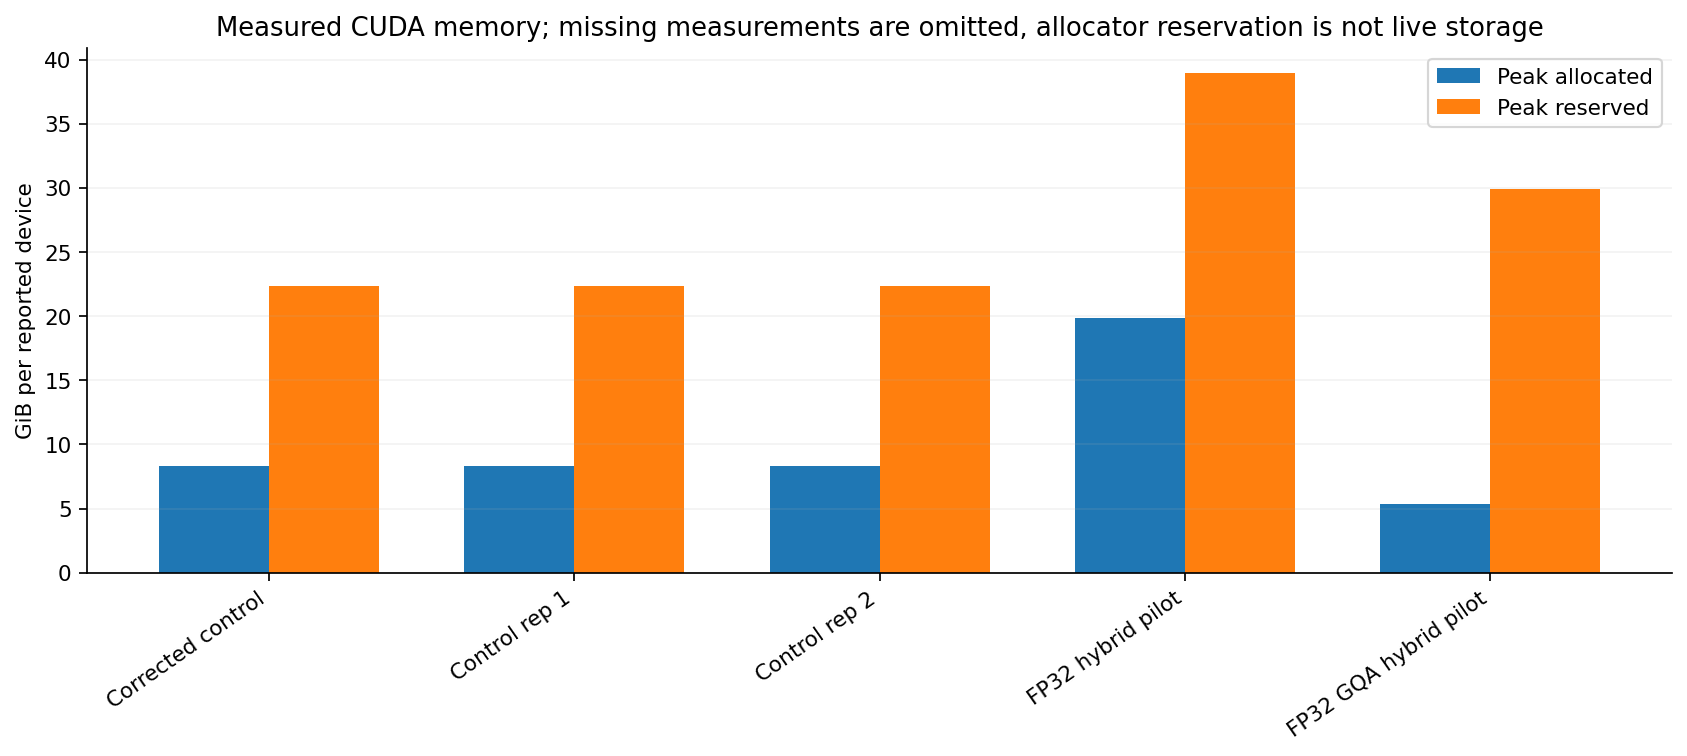
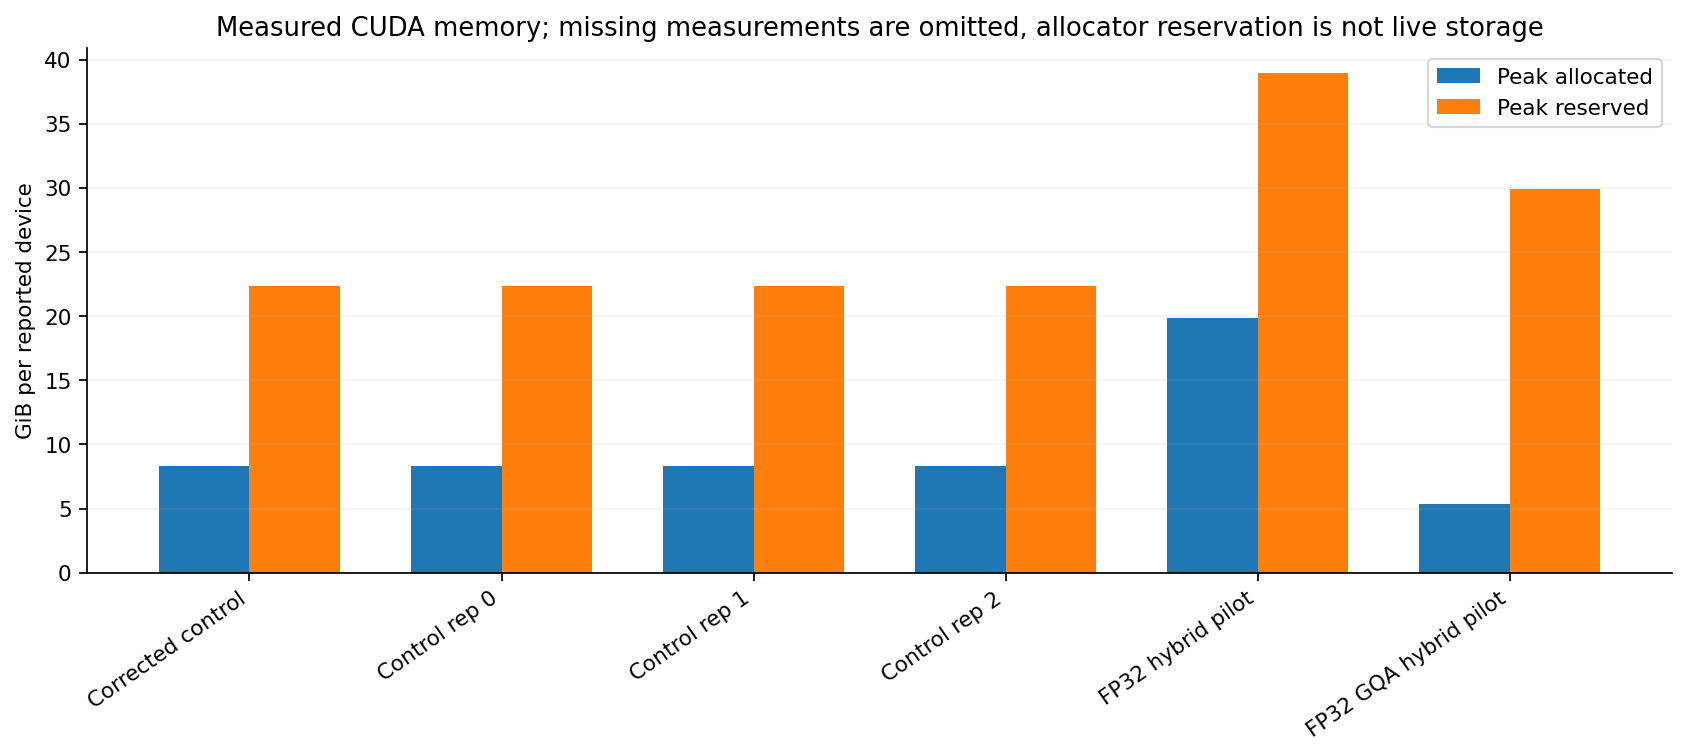
Retain every control timing and audit full-request memory peaks

diff --git a/scripts/report_execution_performance.py b/scripts/report_execution_performance.py
@@ -31,7 +31,7 @@ def load_run(path):
     return values,manifest,{'manifest_sha256':sha256_file(path/'manifest.json'),'samples_sha256':sha256_file(payload),'path':str(path)}
 
 
-def render(*,control,reference,output,runs=(),qualification=None,tail_diagnostic=None,budget_summary=None):
+def render(*,control,reference,output,runs=(),timing_runs=(),qualification=None,tail_diagnostic=None,budget_summary=None):
     output=Path(output);output.mkdir(parents=True,exist_ok=False)
     control_values,control_manifest,control_binding=load_run(control)
     binding_script=Path(__file__).with_name('evaluate_cdf_pilot.py')
@@ -58,6 +58,14 @@ def render(*,control,reference,output,runs=(),qualification=None,tail_diagnostic
         for key in ('scientific_fingerprint','parameter_order','context_seed','case','context_size','query','checkpoint_sha256','context_theta','context_obs'):
             if manifest[key]!=control_manifest[key]:raise ValueError('incomparable run binding: '+key)
         data.append((label,values,manifest,binding))
+    timing_only=[]
+    for declaration in timing_runs:
+        label,path=declaration.split('=',1);values,manifest,binding=load_run(path)
+        if label in {item[0] for item in data+timing_only}:raise ValueError('duplicate timing-only label: '+label)
+        for key in ('scientific_fingerprint','parameter_order','context_seed','case','context_size','query','checkpoint_sha256','context_theta','context_obs'):
+            if manifest[key]!=control_manifest[key]:raise ValueError('incomparable timing-only run binding: '+key)
+        timing_only.append((label,values,manifest,binding))
+    timing_data=data[:1]+timing_only+data[1:]
     import matplotlib
     matplotlib.use('Agg')
     import matplotlib.pyplot as plt
@@ -74,6 +82,10 @@ def render(*,control,reference,output,runs=(),qualification=None,tail_diagnostic
         relative['policy_override']='Explicit human performance-first authorization; physical assessment retained separately.'
         assessments.append({'label':label,'binding':binding,'absolute':absolute,'relative':relative,
                             'absolute_physical_gate_required_for_performance':False})
+    for label,values,manifest,binding in timing_data:
+        absolute=next((item['absolute'] for item in assessments
+                       if item['binding']['samples_sha256']==binding['samples_sha256']),None)
+        if absolute is None:absolute=assess_samples(values,ref,support_mask=support_mask(values))
         t=manifest.get('timings',{});m=manifest.get('memory',{});g=manifest.get('world_size',1)
         request=t.get('posterior_request_seconds');total=manifest.get('wrapper_total_seconds',t.get('total_seconds'))
         timing_rows.append({'label':label,'workers':g,'posterior_request_seconds':request,'total_seconds':total,
@@ -139,7 +151,7 @@ def render(*,control,reference,output,runs=(),qualification=None,tail_diagnostic
                 ax.barh(np.arange(len(rows)),values,color='#238e8b');ax.set_yticks(np.arange(len(rows)),[r['name'][:75] for r in rows],fontsize=7);ax.invert_yaxis();ax.set(xlabel='Summed kernel seconds (may overlap)',title=label)
             fig.suptitle('Actual bounded CPU/CUDA trace windows; query counts and capture scope retained in provenance');fig.tight_layout();save(fig,'bounded-trace-kernels.png')
     with (output/'timings.csv').open('w',newline='') as f:
-        writer=csv.DictWriter(f,fieldnames=list(timing_rows[0]));writer.writeheader();writer.writerows(timing_rows)
+        writer=csv.DictWriter(f,fieldnames=list(timing_rows[0]),lineterminator="\n");writer.writeheader();writer.writerows(timing_rows)
     tail=json.loads(Path(tail_diagnostic).read_text()) if tail_diagnostic else None
     budget=json.loads(Path(budget_summary).read_text()) if budget_summary else None
     meta={'schema':'posteriorforge.execution_figures.v1','attribution':'Built with PriorLabs-TabPFN','script_sha256':sha256_file(__file__),
@@ -148,9 +160,14 @@ def render(*,control,reference,output,runs=(),qualification=None,tail_diagnostic
         'qualification_manifest_sha256':sha256_file(qualification) if qualification else None,
         'tail_diagnostic_sha256':sha256_file(tail_diagnostic) if tail_diagnostic else None,'tail_diagnostic':tail,'budget_summary_sha256':sha256_file(budget_summary) if budget_summary else None,'budget_summary':budget,
         'scope':'Saved finite-cohort visual evidence; not population equivalence, global calibration, or an execution acceptance decision.'}
+    if timing_only:
+        meta.update(timing_only_cohorts=[{'label':label,'binding':binding} for label,_,_,binding in timing_only],
+                    plotted_timing_cohorts=[row['label'] for row in timing_rows])
     write_json(output/'figure-data.json',meta)
     lines=['# PosteriorForge performance evidence','','Built with PriorLabs-TabPFN. Every posterior curve contains 50,000 complete accepted physical vectors. Runtime qualification and absolute physical accuracy are separate decisions. These plots alone do not establish an optimized execution pass.','','| Run | Request seconds | Vectors/s | Physical result |','|---|---:|---:|---|']
     for r in timing_rows:lines.append(f"| {r['label']} | {r['posterior_request_seconds']} | {r['accepted_per_second']} | {r['physical_status']} |")
+    if timing_only:
+        lines.extend(['','Timing-only runs retain their distinct runtime and memory measurements without adding duplicate posterior curves or relative-assessment rows. Their complete 50k payload and scientific bindings pass the same checks as the plotted cohorts.'])
     lines.extend(['','| Run | Max two-sample CDF | Max mean change / reference SD | Max SD fractional change | Investigation flag |','|---|---:|---:|---:|---|'])
     for item in assessments:
         relative=item['relative']
@@ -170,5 +187,5 @@ def render(*,control,reference,output,runs=(),qualification=None,tail_diagnostic
 if __name__=='__main__':
     p=argparse.ArgumentParser(description=__doc__)
     for key in ('control','reference','output'):p.add_argument('--'+key,required=True)
-    p.add_argument('--run',action='append',dest='runs',default=[]);p.add_argument('--qualification');p.add_argument('--tail-diagnostic');p.add_argument('--budget-summary')
+    p.add_argument('--run',action='append',dest='runs',default=[]);p.add_argument('--timing-run',action='append',dest='timing_runs',default=[],help='label=path: authenticated timing/memory run without an additional posterior curve');p.add_argument('--qualification');p.add_argument('--tail-diagnostic');p.add_argument('--budget-summary')
     print(json.dumps(render(**vars(p.parse_args())),indent=2))

diff --git a/scripts/report_gqa_pilot_details.py b/scripts/report_gqa_pilot_details.py
@@ -127,6 +127,23 @@ def render(*, root, output):
     require([(row["label"], row["binding"]["samples_sha256"])
              for row in figure_data["assessments"]] == list(zip(expected_labels, expected_payloads)),
             "base report cohort labels or payload bindings changed")
+    timing_only = figure_data.get("timing_only_cohorts", [])
+    require(len(timing_only) == 1 and timing_only[0]["label"] == "Control rep 0" and
+            timing_only[0]["binding"]["manifest_sha256"] == controls[0][1]["manifest_sha256"] and
+            timing_only[0]["binding"]["samples_sha256"] == controls[0][1]["samples_sha256"],
+            "base report must retain control repetition 0 as an authenticated timing-only run")
+    expected_timing_labels = expected_labels[:1] + ["Control rep 0"] + expected_labels[1:]
+    require(figure_data.get("plotted_timing_cohorts") == expected_timing_labels,
+            "base report must show all three distinct control timing measurements")
+    timing_rows = figure_data["timings"]
+    require([row["label"] for row in timing_rows] == expected_timing_labels,
+            "base timing labels changed")
+    for repetition, (control_manifest, _) in enumerate(controls):
+        row = timing_rows[repetition + 1]
+        require(row["posterior_request_seconds"] ==
+                control_manifest["timings"]["posterior_request_seconds"] and
+                row["total_seconds"] == control_manifest["wrapper_total_seconds"],
+                "control timing measurement mismatch")
     for key in ("scientific_fingerprint", "parameter_order", "context_seed", "case",
                 "context_size", "query", "checkpoint_sha256", "context_theta", "context_obs"):
         require(manifest[key] == earlier_manifest[key], "earlier hybrid mismatch: " + key)
@@ -308,14 +325,14 @@ def render(*, root, output):
     save(fig, "complete-cdf-family.png")
     np.savez_compressed(output / "signed-cdf-witnesses.npz", **witnesses)
     with (output / "pilot-cdf-family.csv").open("w", newline="") as handle:
-        writer = csv.DictWriter(handle, fieldnames=list(family[0]))
+        writer = csv.DictWriter(handle, fieldnames=list(family[0]), lineterminator="\n")
         writer.writeheader()
         writer.writerows(family)
     stage_fields = ("proposal_round", "proposed_rows", "stage_index", "prepare_seconds",
                     "predict_and_sample_seconds", "fit_stock_cache_seconds",
                     "resident_move_seconds", "uncached_fit_seconds")
     with (output / "pilot-stage-events.csv").open("w", newline="") as handle:
-        writer = csv.DictWriter(handle, fieldnames=stage_fields)
+        writer = csv.DictWriter(handle, fieldnames=stage_fields, lineterminator="\n")
         writer.writeheader()
         writer.writerows({key: row[key] for key in stage_fields} for row in events)
     meta = {
@@ -341,7 +358,9 @@ def render(*, root, output):
         "metadata_writer_restored": manifest["metadata_writer_restored"],
         "sources_unchanged": manifest["sources_unchanged"],
         "plotted_posterior_cohorts": expected_labels,
-        "control_rep_0_omitted_from_plots_because_payload_matches_primary": True,
+        "control_rep_0_omitted_from_posterior_plots_because_payload_matches_primary": True,
+        "control_rep_0_timing_and_memory_plotted_separately": True,
+        "plotted_timing_cohorts": expected_timing_labels,
         "count": 50000, "one_optimized_repetition_only": True, "control_repetitions": 3,
         "controls": [{"binding": binding, "request_seconds": m["timings"]["posterior_request_seconds"],
                       "wrapper_seconds": m["wrapper_total_seconds"]} for m, binding in controls],
@@ -434,7 +453,7 @@ All 21 marginal and 32 joint comparisons remain in the complete family plot, pil
 
 The declared full-21 GQA hybrid fixed-conditional screen passed, with the original corrected uncached route retained only for stage 10, member 5. The cache-only full-21 screen remains failed. The raw GPU qualification producer remains archived with its original failed status: a separate source-bound CPU recovery resolves only process addresses of two pinned preprocessing functions, preserving exact configuration type/pickle, numeric, state, RNG and source checks. These fixed-prefix engineering checks do not prove the full posterior law. All {checks['verified_calls']:,} actual prediction contexts passed source and attention-alias restoration checks. The run recorded {counters['attention_call_count']:,} attention calls, including {counters['expanded_attention_calls']:,} expanded shared-KV views. The original engine descriptor still records qualified=false; the separately authenticated recovered qualification records the declared full-21 GQA hybrid pass. Host reuse remains a separate candidate and contributes no speedup to this pilot.
 
-The plotted cohorts omit control repetition 0 because its posterior payload is byte-identical to the corrected primary control; all three contemporaneous control timings still contribute to the reported median. The earlier hybrid pilot is plotted for execution context.
+The posterior CDF and density curves omit control repetition 0 because its payload is byte-identical to the corrected primary control. Its distinct 2364.550747-second request measurement remains a separate timing bar, alongside control repetitions 1 and 2; all three contemporaneous control timings contribute to the reported median. The historical primary control retains its own timing bar. The earlier hybrid pilot is plotted for execution context.
 
 Compared with that earlier hybrid, the GQA pilot was {earlier_comparison['request_speedup_vs_earlier_hybrid']:.3f}x faster by request wall time and {earlier_comparison['wrapper_speedup_vs_earlier_hybrid']:.3f}x faster by wrapper wall time. The saved-cohort comparison has maximum exact CDF distance {earlier_relative['max_cdf_difference']:.5f}, mean change at most {earlier_relative['max_mean_difference_reference_sd']:.6f} reference SD and SD change at most {100 * earlier_relative['max_sd_fraction_difference']:.4f}%, with no investigation thresholds exceeded in that pair. Both pilots used the same named sampling-stream roles and seeds, so these are coupled cohorts rather than independent repetitions. Their 452- and 457-proposal refills can alter retained-row alignment. All 53 paired distances, stream metadata and rejection counts remain in earlier-hybrid-comparison.json; their close agreement is diagnostic evidence, not a population-equivalence claim.
 

diff --git a/evidence/performance-first-v1/gqa-hybrid-pilot-01/README.md b/evidence/performance-first-v1/gqa-hybrid-pilot-01/README.md
@@ -11,7 +11,7 @@ The request took **607.081521 seconds** (10.12 minutes), versus a **2380.309144-
 | Repetition 2 | 2380.309144 | 2399.943702 |
 | Median | 2380.309144 | 2397.317792 |
 
-The plots omit control repetition 0 because its posterior payload is byte-identical to the corrected historical primary control. All three contemporaneous control timings contribute to the medians above. The five plotted cohorts are the corrected primary control, control repetitions 1 and 2, the earlier FP32 hybrid, and the new FP32 GQA hybrid.
+The posterior CDF and density curves omit control repetition 0 because its payload is byte-identical to the corrected historical primary control. Its distinct runtime and memory measurements remain visible as a separate bar. All three contemporaneous control timings contribute to the medians above. The five posterior-curve cohorts are the corrected primary control, control repetitions 1 and 2, the earlier FP32 hybrid, and the new FP32 GQA hybrid; the timing/memory plots include those five plus control repetition 0.
 
 ![Measured request time, accepted-vector rate and nominal request cost](runtime-and-request-cost.png)
 
@@ -43,7 +43,7 @@ The saved budget snapshot records **21.036389 allocated GPU-hours** and **0.6666
 
 ## Files and custody
 
-- [report.md](report.md) embeds all seven verified figures. [figure-data.json](figure-data.json) binds the base-report cohorts, physical assessments, saved reference and accounting snapshot; [timings.csv](timings.csv) contains the five plotted runs.
+- [report.md](report.md) embeds all seven verified figures. [figure-data.json](figure-data.json) binds the base-report cohorts, physical assessments, saved reference and accounting snapshot; [timings.csv](timings.csv) contains all six timing/memory runs, including control repetition 0.
 - [pilot-summary.json](pilot-summary.json) binds the reporting source, raw candidate/control manifests and payloads, independent review, earlier-hybrid comparison, exact tables and three detail figures.
[1 lines of base64/hex data omitted]
 - [render-verification.json](render-verification.json) records the CPU render, all-seven-figure visual review, exact metric checks, strict cohort-label checks and byte-stable repeat. [checksums.json](checksums.json) hashes every other package file.
@@ -55,7 +55,7 @@ The GQA pilot's raw manifest SHA256 is `87a54e1627cf8d48e9a5bb00daaccdc32671838b
 
 Use Python 3.11 with the project's NumPy, SciPy and Matplotlib dependencies. This package was rendered with the verified reference environment on Karolina using CPU-only saved-artifact reads. No model calls, new reference integrations or GPU allocation are needed.
 
-The artifact root must preserve the original `results/` layout, including `gate-final.json`, `banks-v1`, authenticated parent/refined reference grids, corrected primary cohort, all three controls, the earlier FP32 hybrid, the GQA pilot and its independent review, and the tail diagnostic. The details command authenticates the fixed pilot/review, validates actual GQA source/restoration metadata and the expected five plotted cohorts, and recomputes the exact comparisons.
+The artifact root must preserve the original `results/` layout, including `gate-final.json`, `banks-v1`, authenticated parent/refined reference grids, corrected primary cohort, all three controls, the earlier FP32 hybrid, the GQA pilot and its independent review, and the tail diagnostic. The details command authenticates the fixed pilot/review, validates actual GQA source/restoration metadata, the expected five posterior-curve cohorts and all three distinct control timing measurements, and recomputes the exact comparisons.
 
 From the repository root, set paths to the saved-artifact root, a verified Python environment and a new output directory:
 
@@ -70,6 +70,7 @@ PYTHONPATH=src OPENBLAS_NUM_THREADS=2 OMP_NUM_THREADS=2 "$PF_PYTHON" \
   --control "$PF_ROOT/results/cdf-arithmetic-v1/context-4096/seed-20261111-case-0" \
   --reference "$PF_ROOT/results/reference-grids-v1/case-0" \
   --output "$PF_OUTPUT" \
+  --timing-run "Control rep 0=$PF_PHASE/controls/rep-0/seed-20261111-case-0" \
   --run "Control rep 1=$PF_PHASE/controls/rep-1/seed-20261111-case-0" \
   --run "Control rep 2=$PF_PHASE/controls/rep-2/seed-20261111-case-0" \
   --run "FP32 hybrid pilot=$PF_PHASE/hybrid-fp32-batch-1024/rep-0/seed-20261111-case-0" \
@@ -82,3 +83,5 @@ PYTHONPATH=src OPENBLAS_NUM_THREADS=2 OMP_NUM_THREADS=2 "$PF_PYTHON" \
 ```
 
 The details script infers its checkout from `__file__`; `--root` locates only saved artifacts. Repeating it replaces a marked report block without duplicates and reproduces byte-identical outputs in the verified environment.
+
+The [source-bound memory-scope audit](memory-peak-scope-audit.json) confirms one peak reset immediately before the complete request, covering all 42 stage preparations and both proposal waves. The active engine, all 22 SDK Python files and upstream sampler contain no per-stage peak reset. The measured whole-request peaks are 5.386858 GiB allocated and 29.892578 GiB reserved; allocator pool reservation is distinct from concurrently live allocated tensors. No allocator policy was changed.

diff --git a/evidence/performance-first-v1/gqa-hybrid-pilot-01/report.md b/evidence/performance-first-v1/gqa-hybrid-pilot-01/report.md
@@ -5,10 +5,13 @@ Built with PriorLabs-TabPFN. Every posterior curve contains 50,000 complete acce
 | Run | Request seconds | Vectors/s | Physical result |
 |---|---:|---:|---|
 | Corrected control | 2419.0509968628176 | 20.669262477245518 | model_failure |
+| Control rep 0 | 2364.5507467584684 | 21.145665860013512 | model_failure |
 | Control rep 1 | 2383.4860378028825 | 20.977676901388698 | model_failure |
 | Control rep 2 | 2380.309143734048 | 21.005674885390643 | model_failure |
 | FP32 hybrid pilot | 935.5202134829015 | 53.44619953624749 | model_failure |
 | FP32 GQA hybrid pilot | 607.0815207690466 | 82.36126169128052 | model_failure |
+
+Timing-only runs retain their distinct runtime and memory measurements without adding duplicate posterior curves or relative-assessment rows. Their complete 50k payload and scientific bindings pass the same checks as the plotted cohorts.
 
 | Run | Max two-sample CDF | Max mean change / reference SD | Max SD fractional change | Investigation flag |
 |---|---:|---:|---:|---|
@@ -59,7 +62,7 @@ All 21 marginal and 32 joint comparisons remain in the complete family plot, pil
 
 The declared full-21 GQA hybrid fixed-conditional screen passed, with the original corrected uncached route retained only for stage 10, member 5. The cache-only full-21 screen remains failed. The raw GPU qualification producer remains archived with its original failed status: a separate source-bound CPU recovery resolves only process addresses of two pinned preprocessing functions, preserving exact configuration type/pickle, numeric, state, RNG and source checks. These fixed-prefix engineering checks do not prove the full posterior law. All 1,285 actual prediction contexts passed source and attention-alias restoration checks. The run recorded 31,272 attention calls, including 15,492 expanded shared-KV views. The original engine descriptor still records qualified=false; the separately authenticated recovered qualification records the declared full-21 GQA hybrid pass. Host reuse remains a separate candidate and contributes no speedup to this pilot.
 
-The plotted cohorts omit control repetition 0 because its posterior payload is byte-identical to the corrected primary control; all three contemporaneous control timings still contribute to the reported median. The earlier hybrid pilot is plotted for execution context.
+The posterior CDF and density curves omit control repetition 0 because its payload is byte-identical to the corrected primary control. Its distinct 2364.550747-second request measurement remains a separate timing bar, alongside control repetitions 1 and 2; all three contemporaneous control timings contribute to the reported median. The historical primary control retains its own timing bar. The earlier hybrid pilot is plotted for execution context.
 
 Compared with that earlier hybrid, the GQA pilot was 1.541x faster by request wall time and 1.596x faster by wrapper wall time. The saved-cohort comparison has maximum exact CDF distance 0.00136, mean change at most 0.000652 reference SD and SD change at most 0.0678%, with no investigation thresholds exceeded in that pair. Both pilots used the same named sampling-stream roles and seeds, so these are coupled cohorts rather than independent repetitions. Their 452- and 457-proposal refills can alter retained-row alignment. All 53 paired distances, stream metadata and rejection counts remain in earlier-hybrid-comparison.json; their close agreement is diagnostic evidence, not a population-equivalence claim.
 

diff --git a/README.md b/README.md
@@ -118,4 +118,4 @@ See `NOTICE`, the root MIT license, per-file provenance, and the separate Prior
 Labs license for upstream code and model terms. Uncorrected upstream log densities
 are not used as calibrated densities of support-truncated accepted samples.
 
-Current runtime contract and measured evidence: [performance-first execution](docs/performance-first-v1.md), [control report](evidence/performance-first-v1/controls/report.md), and [first complete 50k hybrid pilot](evidence/performance-first-v1/hybrid-pilot-01/README.md). The first hybrid pilot measured a2.544x request speedup. A separate [FP32 attention-layout pilot](evidence/performance-first-v1/gqa-hybrid-pilot-01/README.md) measured3.921x in607.08 seconds for50,000 vectors. Both are single timing repetitions; further optimization and distribution investigations remain pending.
+Current runtime contract and measured evidence: [performance-first execution](docs/performance-first-v1.md), [control report](evidence/performance-first-v1/controls/report.md), and [first complete 50k hybrid pilot](evidence/performance-first-v1/hybrid-pilot-01/README.md). The first hybrid pilot measured a 2.544x request speedup. A separate [FP32 attention-layout pilot](evidence/performance-first-v1/gqa-hybrid-pilot-01/README.md) measured 3.921x in 607.08 seconds for 50,000 vectors. Both are single timing repetitions; further optimization and distribution investigations remain pending.
